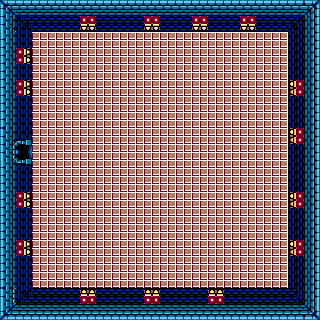
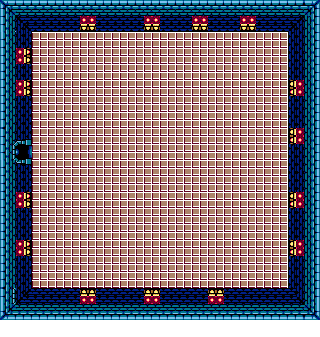
Victory when entring fin dungeon victory works

diff --git a/src/GameStates/VictoryState.cpp b/src/GameStates/VictoryState.cpp
@@ -1,11 +1,42 @@
 #include "VictoryState.h"
 
 VictoryState::VictoryState(sf::RenderWindow* window)
-	: State(window) {}
-
-void VictoryState::update(const sf::Time&)
+	: State(window), m_elapsedTime(sf::Time::Zero), m_direction(1)
 {
-	updateState(GAME_STATE::MAIN_MENU);
+	m_background.setTexture(Resources::getResource().getTexture(TEXTURE::End));
+	m_background.setSize(sf::Vector2f(window->getSize().x, window->getSize().y));
+	m_sprite.setTexture(*Resources::getResource().getTexture(TEXTURE::EndingSpriteSheet));
+	m_sprite.setTextureRect(sf::IntRect(9, 146, 40, 63));
+	m_sprite.setScale(3.5f, 3.5f);
+	m_sprite.setPosition(window->getSize().x / 2.f, window->getSize().y / 2.f);
+
+	m_text.setFont(*Resources::getResource().getFont());
+	m_text.setString("Congragulation\nYou  Have  Won");
+	m_text.setCharacterSize(50);
+	m_text.setLetterSpacing(4);
+	m_text.setFillColor(sf::Color::Black);
+	m_text.setPosition(window->getSize().x / 2.f - 325, window->getSize().y / 2.f - 300);
+}
+
+void VictoryState::update(const sf::Time& deltaTime)
+{
+	m_elapsedTime += deltaTime;
+
+	if (m_elapsedTime.asSeconds() < 8)
+	{
+		float moveSpeed = 50.0f;
+		float moveDistance = moveSpeed * deltaTime.asSeconds();
+		m_sprite.move(0, moveDistance * m_direction);
+
+		if (m_sprite.getPosition().y > getWindow()->getSize().y / 2.f + 50 || m_sprite.getPosition().y < getWindow()->getSize().y / 2.f - 50)
+		{
+			m_direction *= -1;
+		}
+	}
+	else
+	{
+		updateState(GAME_STATE::MAIN_MENU);
+	}
 }
 
 void VictoryState::render(sf::RenderTarget* target)
@@ -14,6 +45,9 @@ void VictoryState::render(sf::RenderTarget* target)
 	{
 		target = getWindow();
 	}
+	target->draw(m_background);
+	target->draw(m_sprite);
+	target->draw(m_text);
 }
 
 std::unique_ptr<State> VictoryState::handleInput(const GAME_STATE& gameState)

diff --git a/src/Misc/Map.cpp b/src/Misc/Map.cpp
@@ -33,8 +33,7 @@ void Map::setDict(std::map<int ,std::string>& dict)
 	dict.emplace(55, "Door");
 	dict.emplace(56, "Door"); // not in use
 	dict.emplace(57, "Door");
-	dict.emplace(58, "Door"); // fin Dungeon
-	dict.emplace(59, "Door");
+	dict.emplace(58, "Door"); // fin Dungeon entrance
 
 	dict.emplace(100, "Sign");
 	dict.emplace(101, "Sign");
@@ -137,8 +136,8 @@ void Map::initVector(Cell cell)
 				}
 				if (cell.value == 58)
 				{
-					p->setLevelToDoor(Level::MAIN);
-					p->setLinkOutPosition({ 263, 196 });
+					p->setLevelToDoor(Level::BOSS_DUNGEON);
+					p->setLinkOutPosition({ 40, 150 });
 					p->setVictoryDoor(true);
 					m_doors.emplace_back(std::move(p));
 				}

diff --git a/include/Misc/Utilities.h b/include/Misc/Utilities.h
@@ -3,7 +3,7 @@
 #include <SFML/Graphics.hpp>
 #include <vector>
 
-const int OBJ_AMOUNT = 14;
+const int OBJ_AMOUNT = 17;
 const int SOUND_AMOUNT = 17;
 const int BACK_SOUND_AMNT = 5;
 
@@ -12,7 +12,8 @@ enum Level
 	Home,
 	MAIN,
 	FIRST_DUNGEON,
-	SECOND_DUNGEON
+	SECOND_DUNGEON,
+	BOSS_DUNGEON
 };
 
 enum GAME_STATE {
@@ -77,6 +78,9 @@ namespace TEXTURE
 	constexpr int Help = 11;
 	constexpr int Controls = 12;
 	constexpr int Zelda = 13;
+	constexpr int End = 14;
+	constexpr int BossDungeon = 15;
+	constexpr int EndingSpriteSheet = 16;
 }
 
 namespace BACKGROUND_SOUND

diff --git a/src/GameStates/LoadGameState.cpp b/src/GameStates/LoadGameState.cpp
@@ -151,6 +151,12 @@ void LoadGameState::setMap()
 	dungeon2.setMap();
 	m_boardLevels.emplace_back(std::move(dungeon2));
 
+	Board dungeon3;
+	dungeon3.setLink(std::move(m_boardLevels.back().extractLink()));
+	dungeon3.initializeLevel(Level::BOSS_DUNGEON);
+	dungeon3.setMap();
+	m_boardLevels.emplace_back(std::move(dungeon3));
+
 	m_link = std::move(m_boardLevels.back().extractLink());
 }
 
@@ -239,7 +245,6 @@ void LoadGameState::initialize(sf::RenderWindow* window)
 	{
 		setMap();
 		updateLevel();
-		std::cout << "LoadGameState initialized" << std::endl;
 	}
 }
 

diff --git a/src/Board.cpp b/src/Board.cpp
@@ -302,6 +302,11 @@ void Board::initializeLevel(const Level& level)
 		m_background.setTexture(*Resources::getResource().getTexture(TEXTURE::Dungeon2));
 		SoundResource::getSound().playBackground(BACKGROUND_SOUND::Dungeon01);
 		break;
+	case Level::BOSS_DUNGEON:
+		m_map.setMap("BossDungeon.csv");
+		m_background.setTexture(*Resources::getResource().getTexture(TEXTURE::BossDungeon));
+		SoundResource::getSound().playBackground(BACKGROUND_SOUND::Dungeon01);
+		break;
 	}
 	m_staticRects = m_map.getStaticObjectsRects();
 	m_staticRectsOfCurLevel = m_staticRects;

diff --git a/src/GameStates/GameRunningState.cpp b/src/GameStates/GameRunningState.cpp
@@ -86,7 +86,6 @@ std::unique_ptr<State> GameRunningState::handleInput(const GAME_STATE& gameState
 		return std::make_unique<SwitchLevelState>(getWindow(), std::move(m_boardLevels), std::move(m_view), m_level, m_nextLevel);
 	case GAME_STATE::VICTORY:
 		//SoundResource::getSound().playBackground(BACKGROUND_SOUND::Victory);
-		std::cout << "Victory!!!!!!!!!!!safddkjkg" << std::endl;
 		return std::make_unique<VictoryState>(getWindow());
 
 	}

diff --git a/include/ResourcesManager/Resources.h b/include/ResourcesManager/Resources.h
@@ -11,7 +11,8 @@ private:
 		"LinkandSword.png", "Mapobject.png", "Enemies.png",
 		"Zelda_status_bar.png", "Zelda_Game_Over.png", "Dungeon.png",
 		"Weapons-items-hud.png", "Dungeon01.png",
-		"Home.png", "Help.png", "Controls.png", "NPCs.png"
+		"Home.png", "Help.png", "Controls.png", "NPCs.png",
+		"End.png", "BossDungeon.png", "EndingSpriteSheet.png"
 	};
 	sf::Texture m_texture[OBJ_AMOUNT];
 	sf::Image m_icon;

diff --git a/src/GameStates/NewGameState.cpp b/src/GameStates/NewGameState.cpp
@@ -71,5 +71,11 @@ void NewGameState::setMap()
 	dungeon2.setMap();
 	m_boardLevels.emplace_back(std::move(dungeon2));
 
+	Board dungeon3;
+	dungeon3.setLink(std::move(m_boardLevels.back().extractLink()));
+	dungeon3.initializeLevel(Level::BOSS_DUNGEON);
+	dungeon3.setMap();
+	m_boardLevels.emplace_back(std::move(dungeon3));
+
 	m_boardLevels.front().setLink(std::move(m_boardLevels.back().extractLink()));
 }

diff --git a/include/GameStates/VictoryState.h b/include/GameStates/VictoryState.h
@@ -12,4 +12,11 @@ public:
 	virtual void render(sf::RenderTarget* = nullptr) override;
 	virtual std::unique_ptr<State> handleInput(const GAME_STATE&) override;
 	virtual void buttonPressed(sf::RenderWindow&, const sf::Event&) override;
+private:
+	sf::RectangleShape m_background;
+	sf::Sprite m_sprite;
+	sf::Text m_text;
+
+	sf::Time m_elapsedTime;
+	int m_direction;
 };
